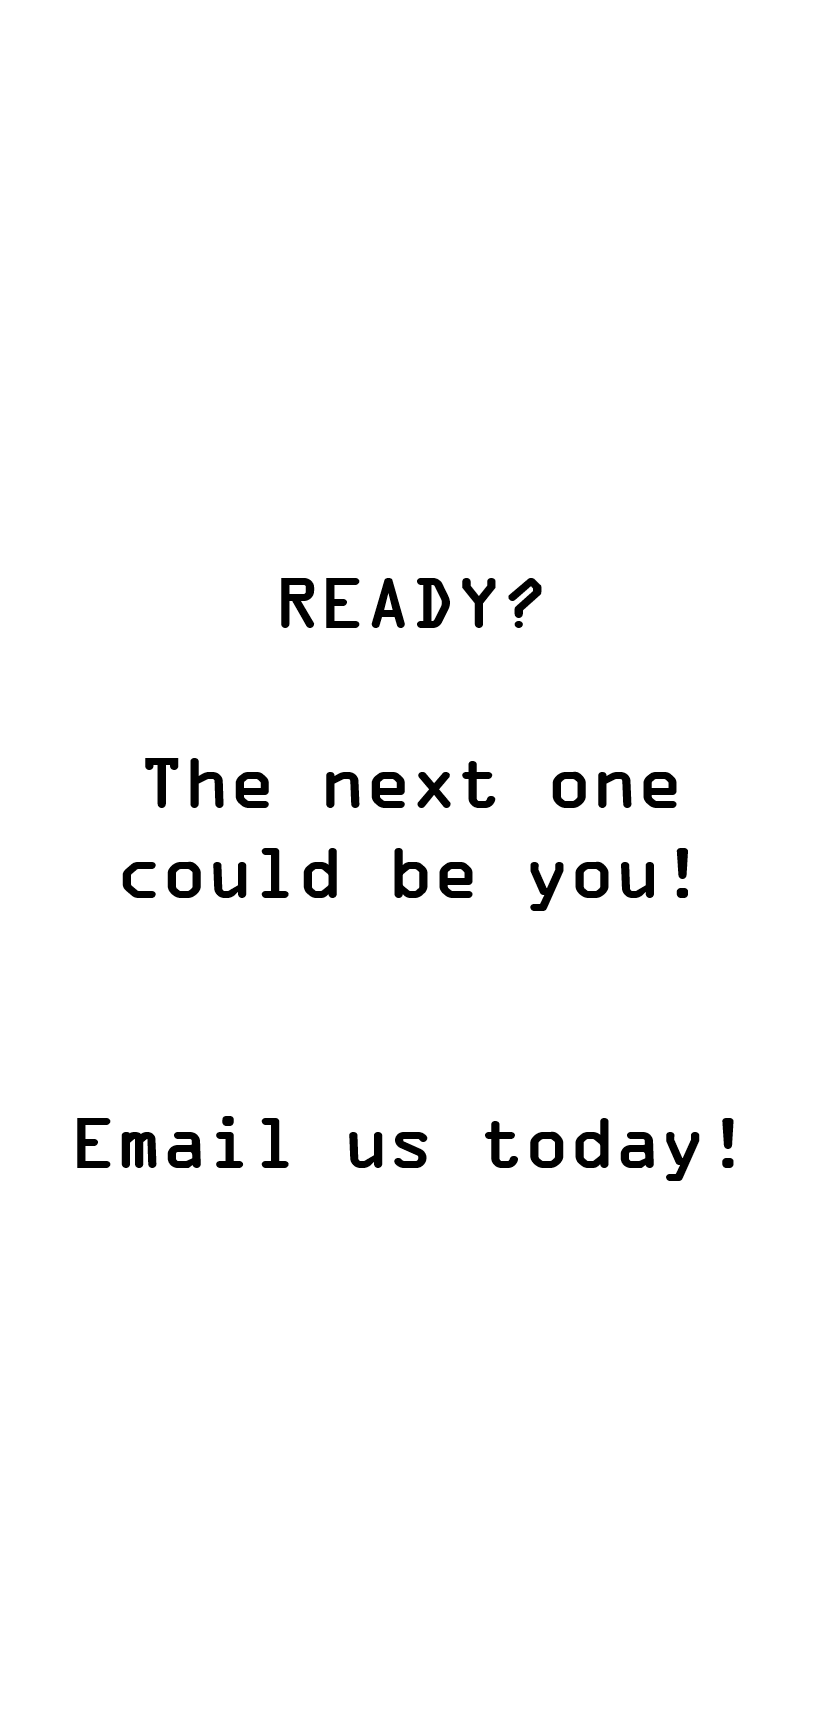
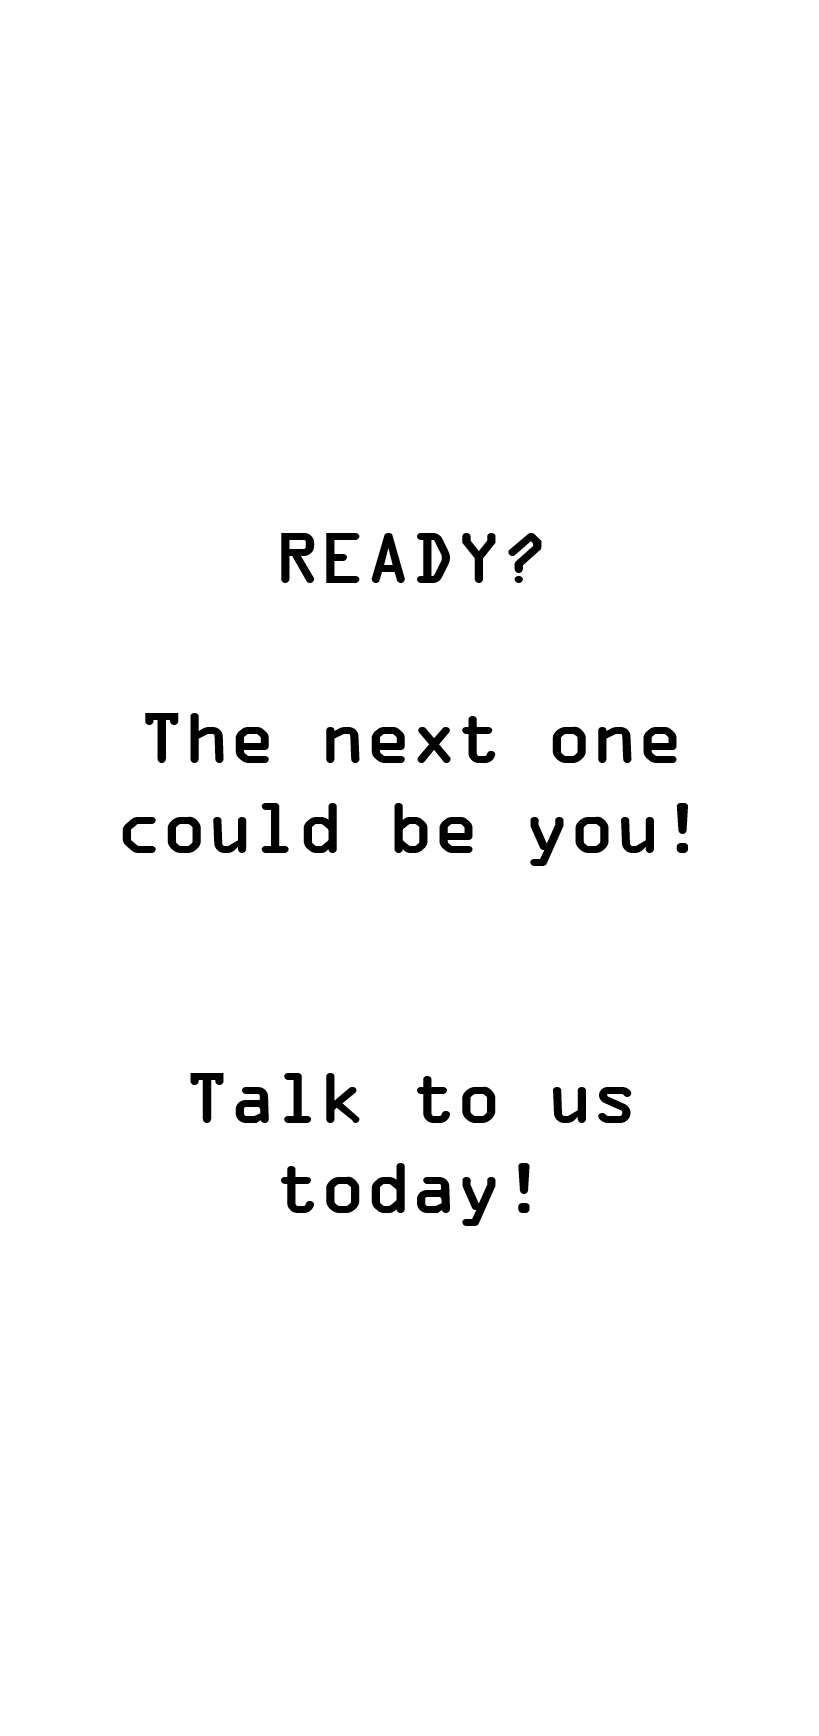
.

diff --git a/index.html b/index.html
@@ -93,7 +93,7 @@
 	
 	<div class="u-container-half side-right">
 		<div class="nav-cta">
-			<a href="mailto:info@intobinary.org" class="nav-cta-button">Email Us</a>
+			<a href="https://wa.me/27630478534" class="nav-cta-button">Whatsapp Us Now</a>
 			
 			<a href="https://fb.com/IntoBinary" class="nav-cta-link"><img src="https://madewithlove.intobinary.org/assets/images/icon_facebook_black.png" class="nav-cta-link-icon" /></a>
 		</div>
